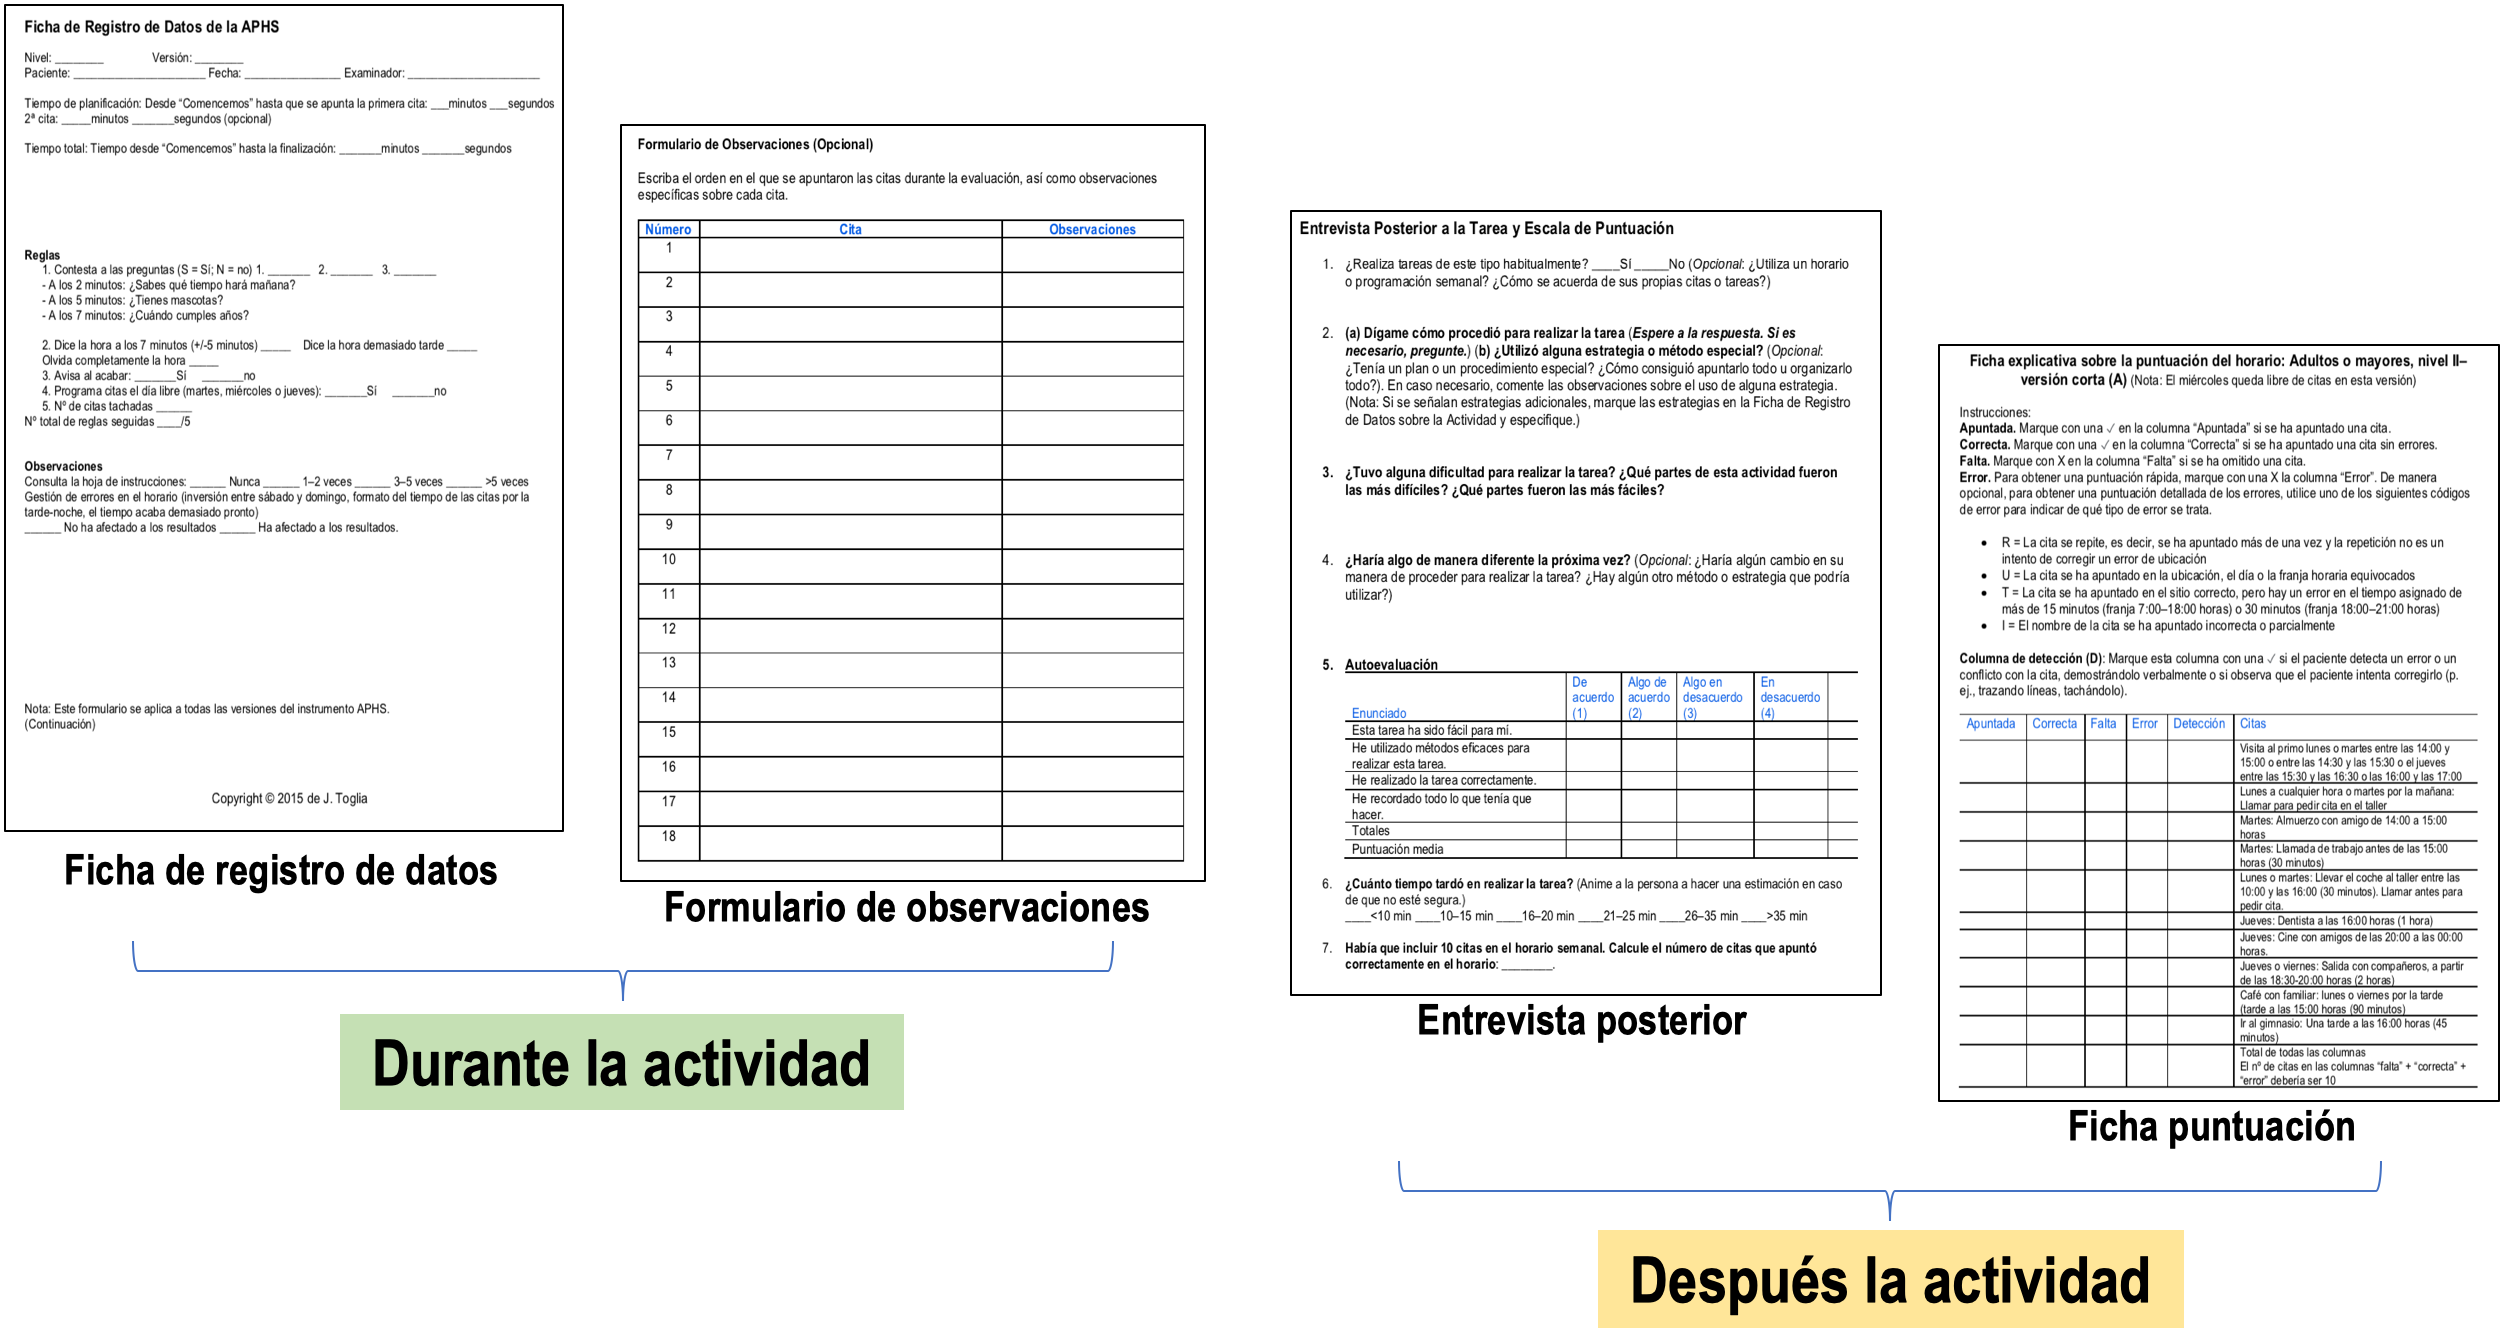
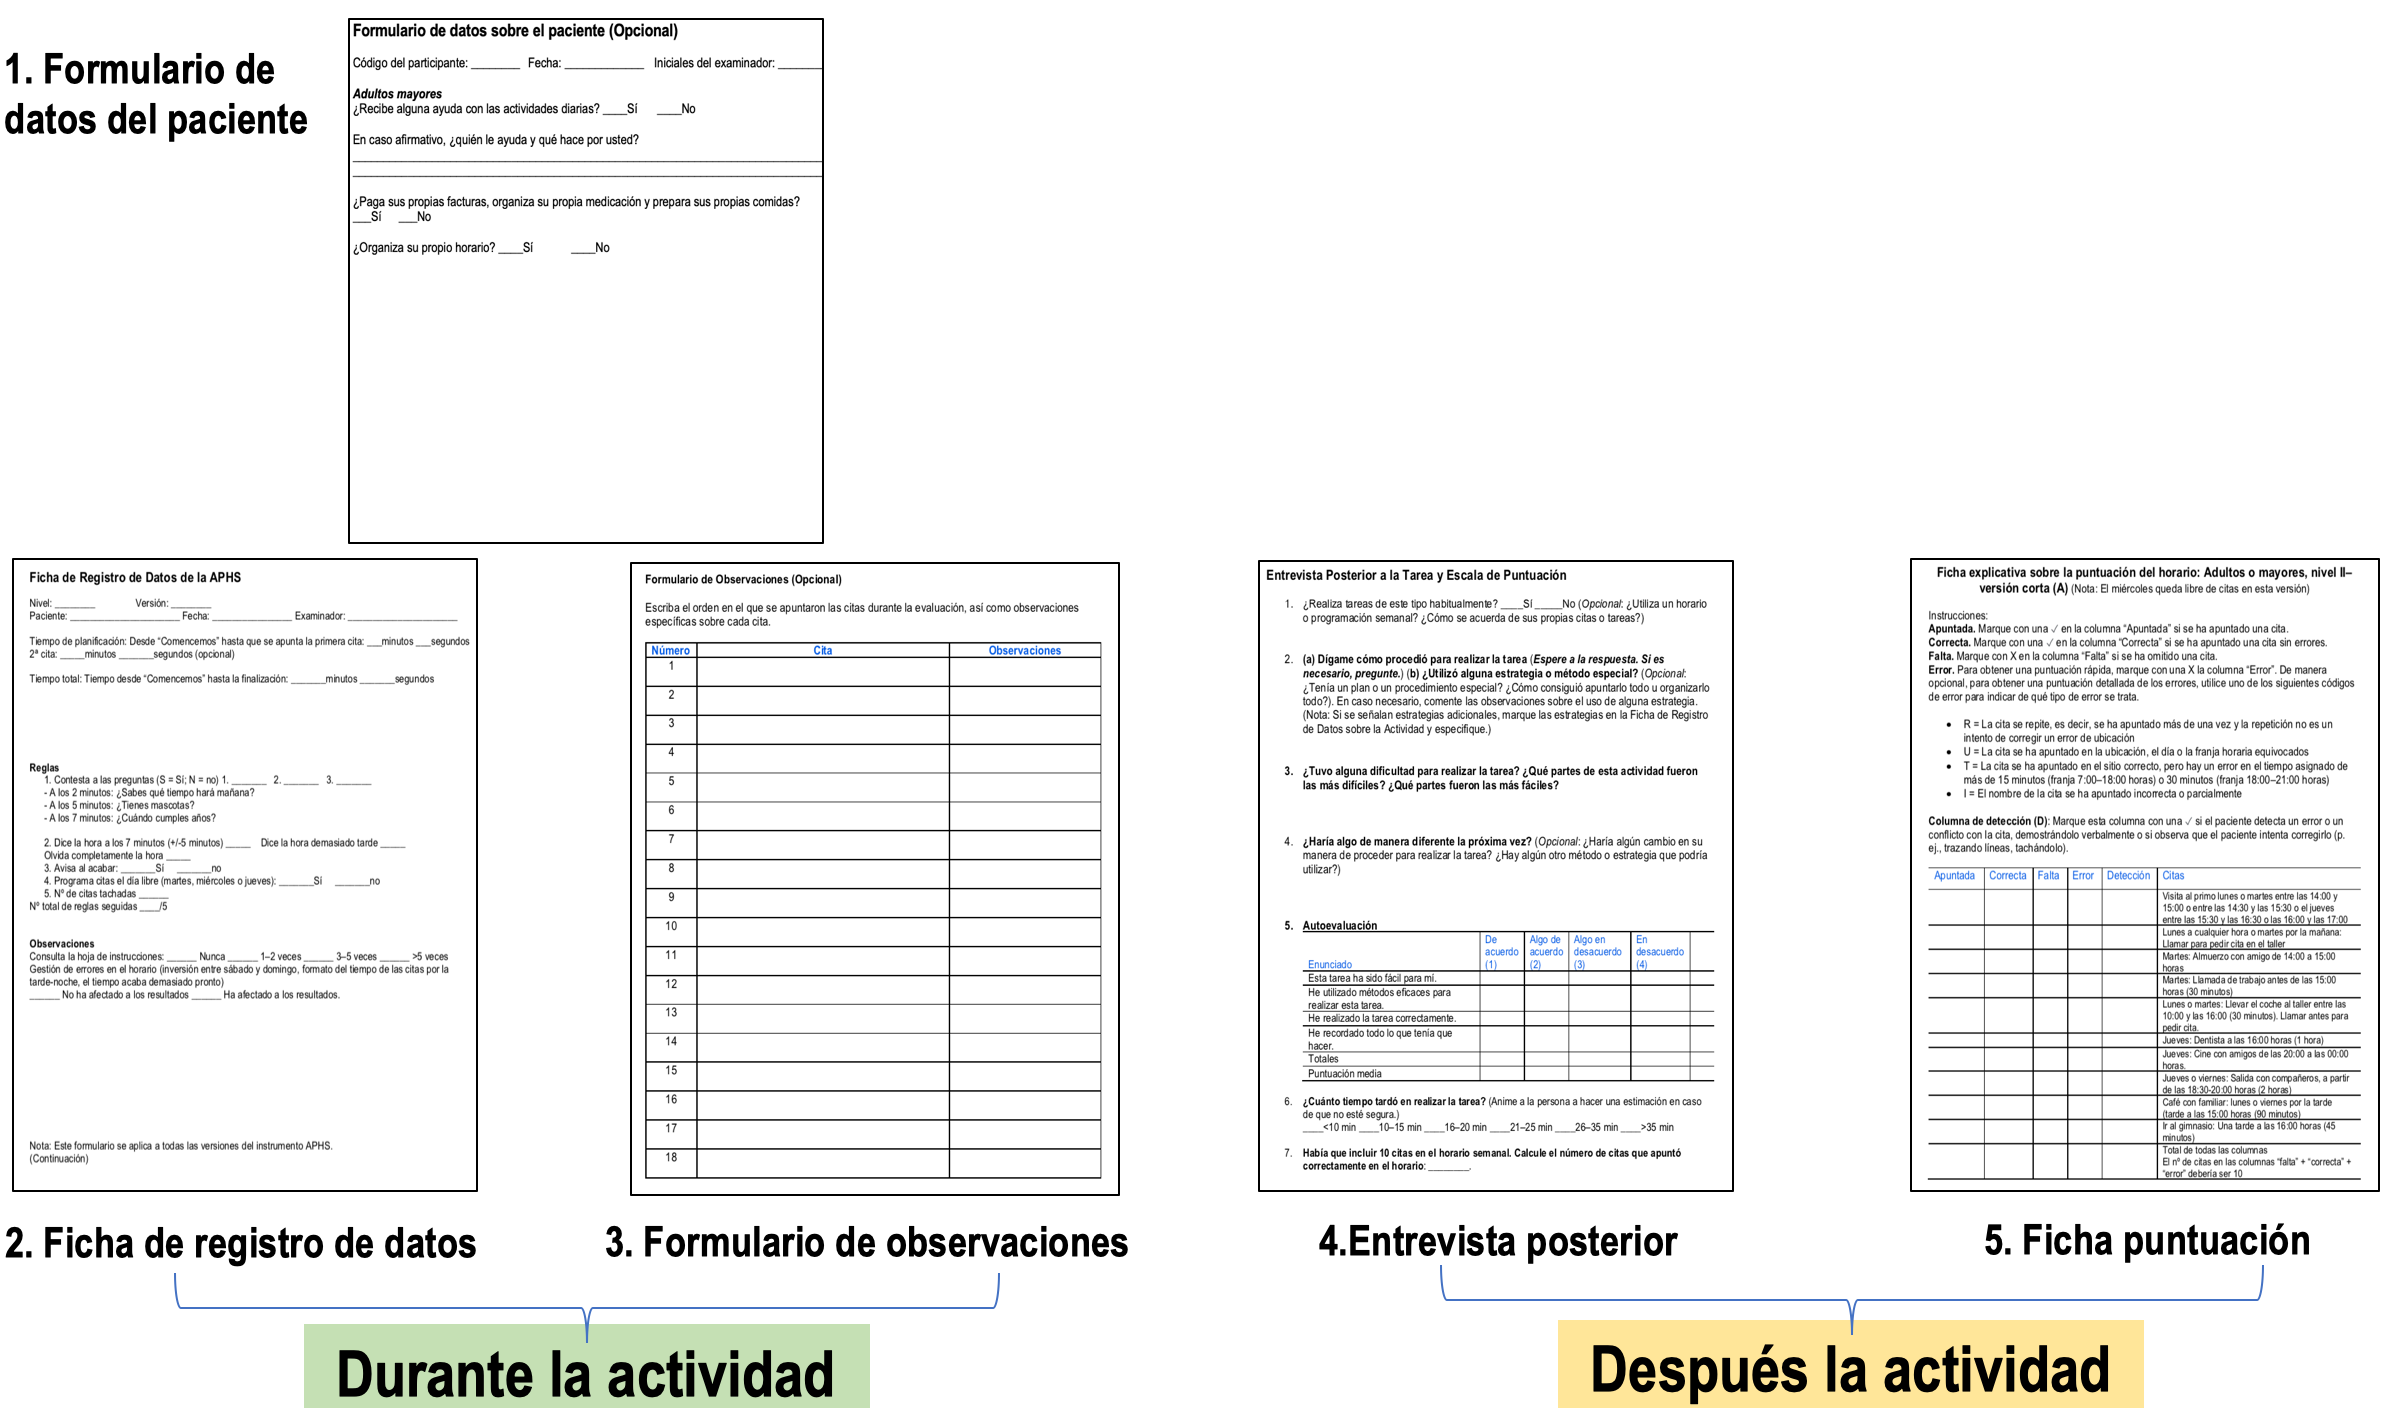
acomodo terapeuta

diff --git a/index.html b/index.html
@@ -234,7 +234,12 @@ background-image: url(https://github.com/danielesnm/cursoWeekly/blob/master/imag
 background-position: 50% 90%
 background-size: 95%
 # **Material del participante**
-  
+ 
+--- 
+background-image: url(https://github.com/danielesnm/cursoWeekly/blob/master/imagenes/Acomodo.png?raw=true)
+background-position: 50% 90%
+background-size: 95%
+# **Material de la terapeuta**
 
 ---
 background-image:url(https://github.com/danielesnm/cursoWeekly/blob/master/imagenes/Formulario%20de%20datos%20del%20paciente.png?raw=true)
